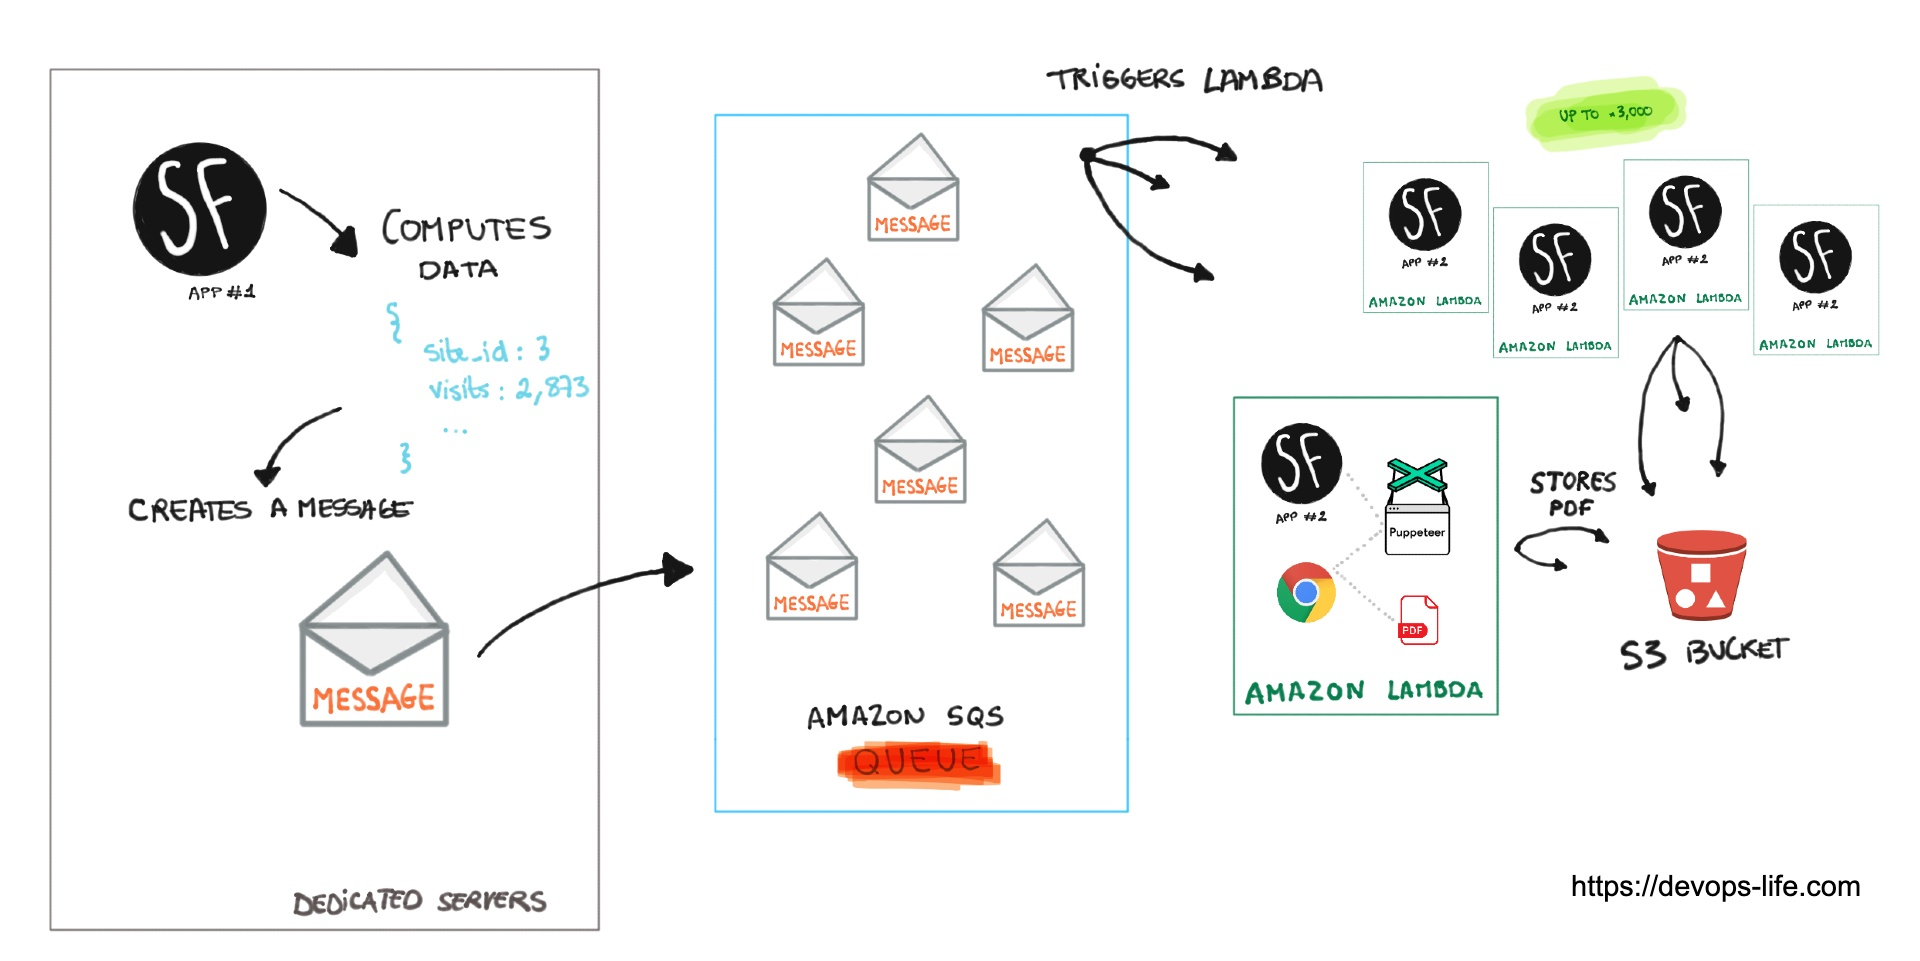
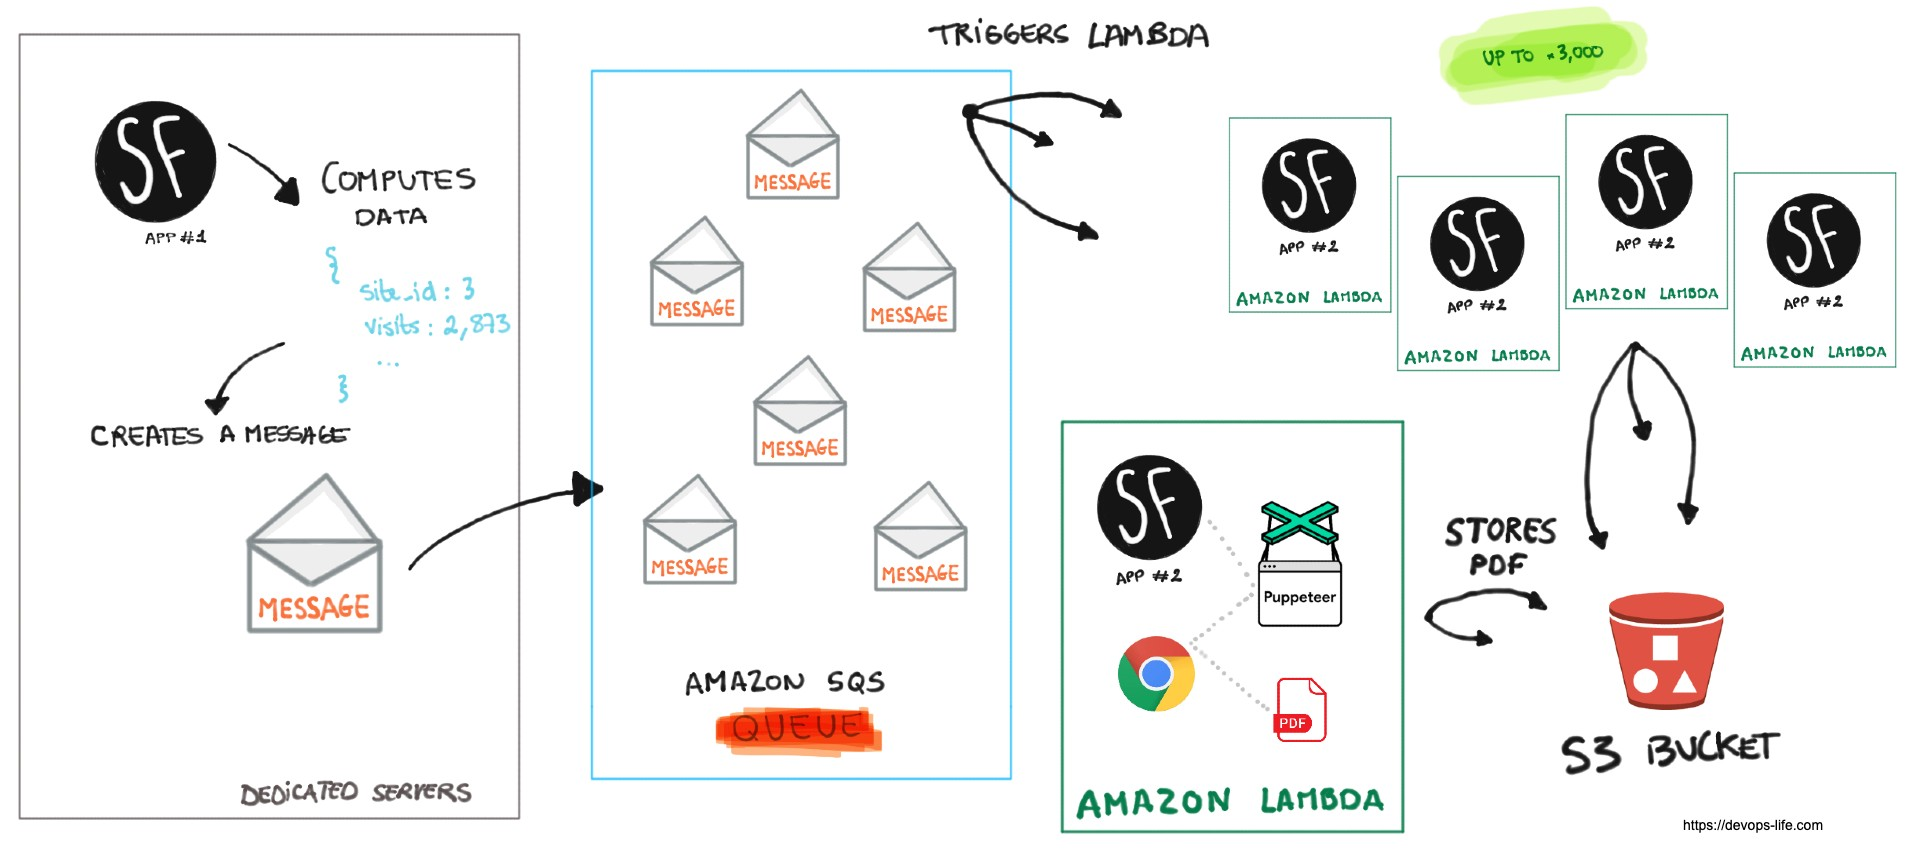
better image

diff --git a/_posts/2020-03-06-how-serverless-saved-us-for-$2-with-bref-sh.md b/_posts/2020-03-06-how-serverless-saved-us-for-$2-with-bref-sh.md
@@ -1,11 +1,11 @@
 ---
 layout: post
-title: How Serverless Saved Us For $2/month.
-subtitle: Understand the benefits of going "serveless" for specific use-cases
+title: How Serverless Saved Us For $2.
+subtitle: Understand the benefits of going serveless (FaaS)
 categories:
 - blog
 catalog: true
-date:       2019-04-10
+date:       2020-03-06
 author:     Tristan Bessoussa
 header-img: /images.unsplash.com/photo-1491227289289-742c2e7289a7?ixlib=rb-1.2.1&ixid=eyJhcHBfaWQiOjEyMDd9&auto=format&fit=crop&w=1650&q=80
 tags:
@@ -19,18 +19,23 @@ tags:
     - php
 ---
 
-You've probably heard or seen words "serverless" or "FaaS" - Function as a Service- over the past few months asking yourself, "ok, is this hype or does it actually have some benefits" ?
+You've probably heard or seen words "serverless" or "FaaS" -Function as a Service- over the past few months asking yourself, "ok, is this hype or does it actually have some benefits" ?
 
 Well, I'm going to share a feedback for our use case at my job that will illustrate why going serverless helped us achieved what was asked.
 
 To achieve our goal we used the following products/framework/libraries:
-- [Symfony](https://symfony.com/)
+- [Symfony (PHP)](https://symfony.com/)
 - [Bref.sh](https://bref.sh/)
+- [Serverless framework](https://serverless.com/)
 - [Browsershot](https://github.com/spatie/browsershot)
 - [Pupetter](https://pptr.dev/)
 - [Amazon SQS](https://aws.amazon.com/sqs/)
 - [Amazon Lambda](https://aws.amazon.com/lambda/?nc2=type_a)
 - [Scaleway S3](https://www.scaleway.com/en/object-storage/)
+
+My team works with `PHP7`, `Symfony` and `Vue.js`.
+
+You can contribute to this article for any typos or error you find by [submitting a pull request](https://github.com/tristanbes/devops-life/tree/gh-pages/_posts/2020-03-06-how-serverless-saved-us-for-$2-with-bref-sh.md)
 
 ## The need: Generate PDF analytics reports
 
@@ -41,32 +46,24 @@ I should recieve each month a PDF report containing serveral analytics for my we
 - "As a reseller of this group of customer of the CMS,
 I should recieve each month a PDF report of each customer's reports (only a part of it)"
 
-In 2 sentences, for our first customer with this feature, we'll have to generate 2,000 PDFs.
-
-## Technical background
-
-My team is mainly Symfony & Vue.js developpers. Our apps runs with PHP 7, Symfony 4 and Vue.js.
-
-## Requirements
-
-Since this PDF is an aggregation of multiple external and internal data, you will want to have the **data ready** when you'll generate the PDF. In our case we used redis to store the necessary data after serialization.
-
+In 2 sentences, for our few customers with this feature, we'll have to generate 2,000+ PDFs.
 Here's what look like one of the PDF we have to generate:
 
 {% include image.html width="688" url="/img/serverless/pdf-lambda-result.jpg" description="PDF result" %}
+
 
 ### VPS / Dedicated server option
 
 You could setup a CRON on one of your servers and this cron will take care of launching a command to generate the PDF.
 The main problem: **it doesn't scale**.
 
-20 seconds (pdf generation) x 4,000 PDF = 11 hours of PDF generation
+~20 seconds (pdf generation) x 2,000 PDF = _11 hours of PDF generation_
 
-During those 22 hours of PDF generation you need to ensure that the generation can survive that long (through app deployements, server restart etc...) and a way to monitor that the process is running, for example using [Supervisor](http://supervisord.org/).
+During those 11 hours you'd need to ensure that the generation can survive that long (through app deployements, server restart etc...) and a way to monitor that the process is running, for example using [Supervisor](http://supervisord.org/).
 
 It would also require you to code the whole process using "[defensive programming](https://en.wikipedia.org/wiki/Defensive_programming)" in order to ensure the continuing function of your code under unforeseen circcumstances.
 
-Since we run a PHP application, it's not multi-threaded, meaning, we can't easily take benefit from all the CPU cores of our dedicated servers. One of the options, if we want to achieve concurrency, is to rent more servers which we have to deploy, provision and manage.
+Since we run a PHP app, it's not multi-threaded, meaning, we can't easily take advantage from all the CPU cores of our dedicated server. One of the options, if we want to achieve concurrency, is to rent more servers which we have to deploy, provision and manage.
 
 ### Serverless option
 
@@ -74,9 +71,10 @@ Here's the workflow of our setup.
 
 {% include image.html width="688" url="/img/serverless/pdf-lambda-architecture.jpg" description="PDF generation serverless architecture with 2 Symfony apps. <br /><a href='/img/serverless/pdf-lambda-architecture.jpg'>Full HD image for the serverless architecture</a>." %}
 
+{% include image.html width="688" url="/img/serverless/puml-lambda-pdf.png" description="PUML diagram of the PDF generation workflow" %}
 #### Step 1: preparing the data
 
-The CMS application (`app #1`, PHP/Symfony) is responsible of **gathering and storing all the data** that is necessary to build the PDF into a Redis instance.
+Since this PDF is an aggregation of multiple external and internal data, you will want to have the **data ready** when you'll generate the PDF. The CMS application (`app #1`, PHP/Symfony) is responsible of **gathering and storing all the data** that is necessary to build the PDF into a Redis instance.
 
 Since we want to achieve scalability, you don't want the service responsible of generating the PDF to ask via an API the data to the `app #1` because it would become a bottleneck if 3,000 simultaneous lambda would send requests to your API.
 
@@ -94,7 +92,7 @@ Note: our message structure (Plain Old PHP Object) is stored in another git repo
 
 #### Step 4: generate the PDFs
 
-Up to **3,000 lambda instances are started**, that's some serious scalability there (in our case we limited it at 50). Each lambda recieves one message containing the data to generate 1 PDF.
+Up to **3,000 lambda instances are started**, that's some serious scalability there (in our case we limited it at 50 concurrent lambdas). Each lambda recieves one message containing the data to generate 1 PDF.
 
 Then the lambda runs our `app #2` (PHP, Symfony) responsible of rendering a view inside a web page using a simple `.twig` templates with some javascript to render charts.
 
@@ -104,9 +102,9 @@ Once the PDF is generated, it's stored in a **S3 bucket**.
 
 We used [Bref.sh](https://bref.sh/) around Symfony; It's **awesome** because it provides lambda integration for your favorite PHP framework and also different [PHP runtime](https://bref.sh/docs/runtimes/#bref-runtimes) that will run on the lambda.
 
-#### Step 5: (hidden) Email the PDF to the client
+#### Step 5: email the PDF to the client
 
-The architecture image is only a part of what really happens. Because once the PDF has been generated in the bucket, we generate a new Message, send it to another SQS queue, and then, this particular queue is using `app #2` again (but another part of the code) to send an email to the client with the PDF attached.
+The architecture image is only a part of what really happens. Because once the PDF has been generated in the bucket, we generate a new Message, send it to another SQS queue, and then, this particular queue is using `app #2` again (but another part of the code) to send an email to the client with the PDF attached and notify the CMS application so client's can download their PDF through the backoffice too.
 
 ## Comparaison
 
@@ -124,6 +122,8 @@ One of the main advantage of using serverless architecture is that you get bille
 
 You also don't have to take care of where or how it runs. You just ship code and it runs in the cloud. The cloud provider is responsible of managing the allocation of the machines resources.
 
-In our example, using the free tier of Amazon Lambda and Amazon SQS, generating 2,000 PDF is costing us **~$1.63 per month** ($1.62 for SQS, $0.01 for Lambda).
+In our example, using the free tier of Amazon Lambda and Amazon SQS, generating 2,000 PDF is costing us **~$1.63** ($1.62 for SQS, $0.01 for Lambda). You can use this [serverless costs calculator](https://cost-calculator.bref.sh/) to get better insights.
+
+If you think you have some part of your code that could benefit from being moved to a serverless architecture, I would advise that you start with a very simple concept so you can get familiar with this new serverless world concept. We did that with small portion of our code before even attempting to solve the PDF problem to better understand the full ecosystem (queuing, lambda, notification...)
 
 If you want to read more from a technical point of view. One of my team's developper wrote this article: [Generate PDFs on Amazon AWS with PHP and Puppeteer](https://hugo.alliau.me/2020/01/02/generate-pdfs-on-amazon-aws-with-php-and-puppeteer/). It contains a lot of details, such as how we shipped chrome into the lambda.
